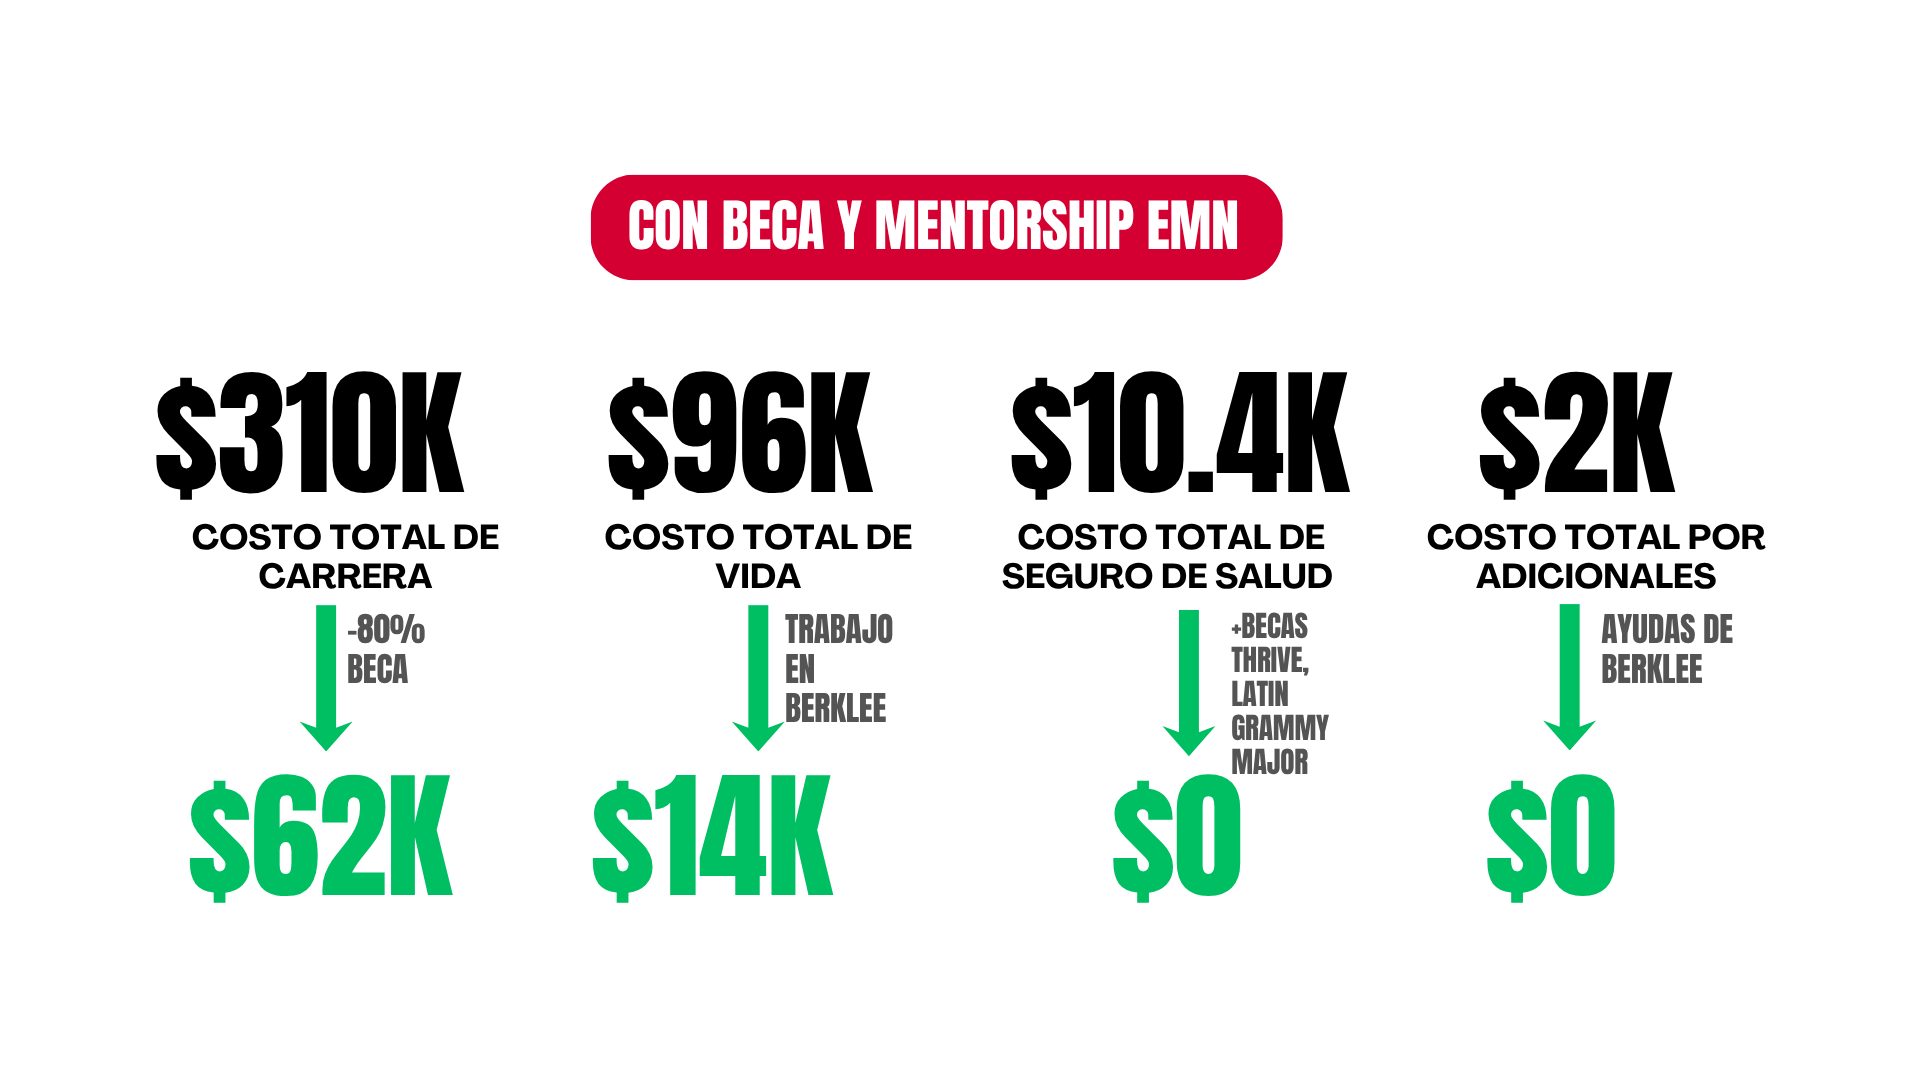
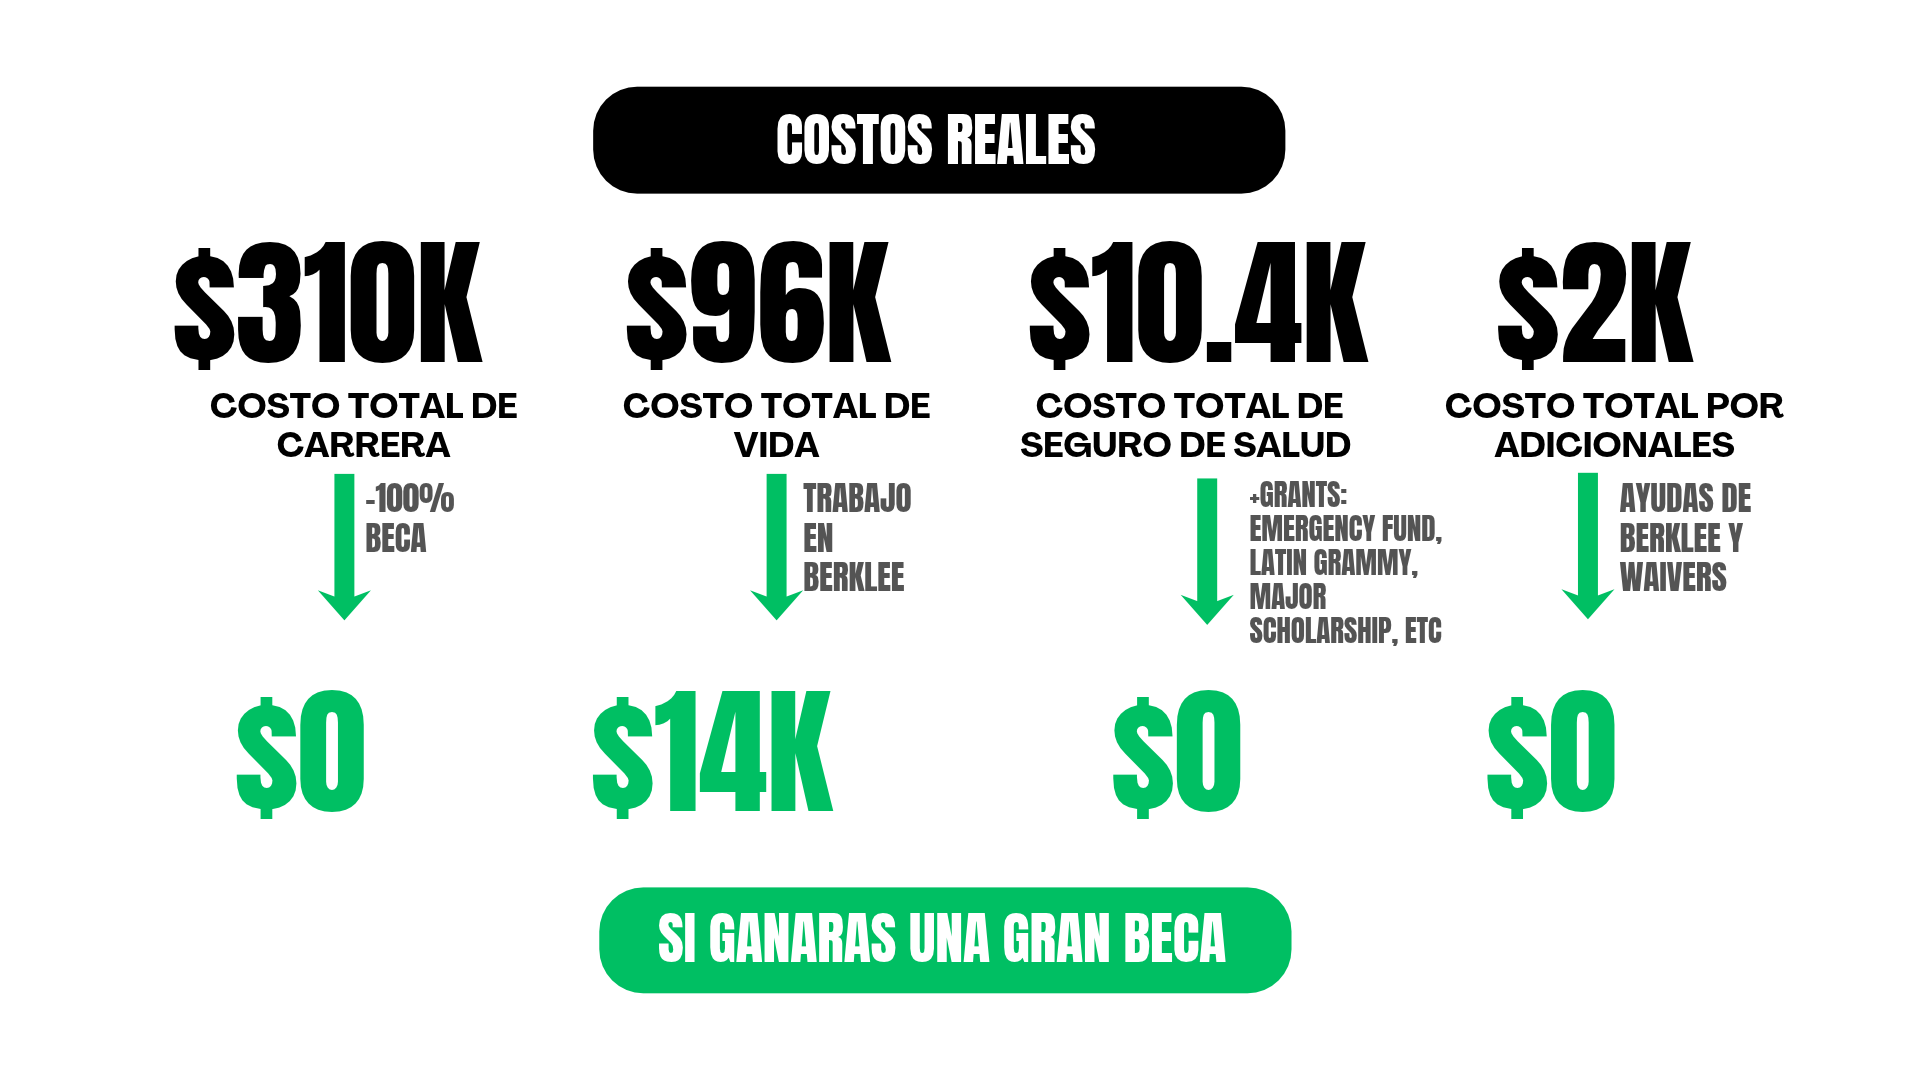
detalles emn de palabras

Changed region(s): [[0.2812, 0.0611, 0.9375, 0.9472], [0.0625, 0.2139, 0.2812, 0.825]]

diff --git a/_layouts/emn/practice-lab.html b/_layouts/emn/practice-lab.html
@@ -24,9 +24,9 @@
           <a href="https://zareenterprises.github.io/practice-lab" class="emn-nav__link is-active">EMN Practice Lab</a>
           <button class="emn-nav__caret" aria-label="Abrir submenú de EMN Practice Lab" aria-expanded="false">&#9662;</button>
           <div class="emn-nav__dropdown">
-            <a href="https://zareenterprises.github.io/sight-melody" class="emn-nav__dropdown-item">Berklee Sight Read</a>
+            <a href="https://zareenterprises.github.io/sight-melody" class="emn-nav__dropdown-item">Sight reading &amp; Audio Practice</a>
             <a href="https://zareenterprises.github.io/interview-prep" class="emn-nav__dropdown-item">Berklee Interview Prep</a>
-            <span class="emn-nav__dropdown-item is-disabled">Berklee Ear Training <span class="soon">Pronto</span></span>
+            <span class="emn-nav__dropdown-item is-disabled">Berklee Improvisation Practice <span class="soon">Pronto</span></span>
             <span class="emn-nav__dropdown-item is-disabled">Berklee Piece &amp; Impro <span class="soon">Pronto</span></span>
           </div>
         </div>
@@ -49,7 +49,7 @@
       <div class="lab__slot">
         <a href="https://zareenterprises.github.io/sight-melody" class="tool-card">
           <p class="tool-card__label">Disponible</p>
-          <h2>Berklee Sight Read</h2>
+          <h2>Sight reading &amp; Audio Practice</h2>
           <p>Lectura a primera vista de melodía y ritmo, generada al azar y sin repetirse.</p>
           <span class="tool-card__arrow">Entrar &rarr;</span>
         </a>
@@ -67,7 +67,7 @@
       <div class="lab__slot">
         <div class="tool-card is-disabled">
           <p class="tool-card__label">Pronto</p>
-          <h2>Berklee Ear Training</h2>
+          <h2>Berklee Improvisation Practice</h2>
           <p>Intervalos, acordes y dictado melódico al nivel que pide la audición.</p>
           <span class="tool-card__arrow">Pronto</span>
         </div>

diff --git a/_layouts/emn/index.html b/_layouts/emn/index.html
@@ -24,9 +24,9 @@
           <a href="https://zareenterprises.github.io/practice-lab" class="emn-nav__link">EMN Practice Lab</a>
           <button class="emn-nav__caret" aria-label="Abrir submenú de EMN Practice Lab" aria-expanded="false">&#9662;</button>
           <div class="emn-nav__dropdown">
-            <a href="https://zareenterprises.github.io/sight-melody" class="emn-nav__dropdown-item">Berklee Sight Read</a>
+            <a href="https://zareenterprises.github.io/sight-melody" class="emn-nav__dropdown-item">Sight reading &amp; Audio Practice</a>
             <a href="https://zareenterprises.github.io/interview-prep" class="emn-nav__dropdown-item">Berklee Interview Prep</a>
-            <span class="emn-nav__dropdown-item is-disabled">Berklee Ear Training <span class="soon">Pronto</span></span>
+            <span class="emn-nav__dropdown-item is-disabled">Berklee Improvisation Practice <span class="soon">Pronto</span></span>
             <span class="emn-nav__dropdown-item is-disabled">Berklee Piece &amp; Impro <span class="soon">Pronto</span></span>
           </div>
         </div>
@@ -38,8 +38,8 @@
   <main>
     <section class="hero">
       <div class="hero__inner">
-        <p class="hero__eyebrow">EMN Apps</p>
-        <h1>Herramientas para <em>audicionar</em><br>con beca a Berklee</h1>
+        <p class="hero__eyebrow">EMN</p>
+        <h1>Escuela de Música y Negocios</h1>
         <p>Alumnos becados de Berklee ayudándote a ganar una ti también.</p>
       </div>
     </section>

diff --git a/_layouts/emn/feedback.html b/_layouts/emn/feedback.html
@@ -24,9 +24,9 @@
           <a href="https://zareenterprises.github.io/practice-lab" class="emn-nav__link">EMN Practice Lab</a>
           <button class="emn-nav__caret" aria-label="Abrir submenú de EMN Practice Lab" aria-expanded="false">&#9662;</button>
           <div class="emn-nav__dropdown">
-            <a href="https://zareenterprises.github.io/sight-melody" class="emn-nav__dropdown-item">Berklee Sight Read</a>
+            <a href="https://zareenterprises.github.io/sight-melody" class="emn-nav__dropdown-item">Sight reading &amp; Audio Practice</a>
             <a href="https://zareenterprises.github.io/interview-prep" class="emn-nav__dropdown-item">Berklee Interview Prep</a>
-            <span class="emn-nav__dropdown-item is-disabled">Berklee Ear Training <span class="soon">Pronto</span></span>
+            <span class="emn-nav__dropdown-item is-disabled">Berklee Improvisation Practice <span class="soon">Pronto</span></span>
             <span class="emn-nav__dropdown-item is-disabled">Berklee Piece &amp; Impro <span class="soon">Pronto</span></span>
           </div>
         </div>

diff --git a/_layouts/emn/admin-calendar.html b/_layouts/emn/admin-calendar.html
@@ -103,9 +103,9 @@
         <a href="https://zareenterprises.github.io/practice-lab" class="emn-nav__link">EMN Practice Lab</a>
         <button class="emn-nav__caret" aria-label="Abrir submenú de EMN Practice Lab" aria-expanded="false">&#9662;</button>
         <div class="emn-nav__dropdown">
-          <a href="https://zareenterprises.github.io/sight-melody" class="emn-nav__dropdown-item">Berklee Sight Read</a>
+          <a href="https://zareenterprises.github.io/sight-melody" class="emn-nav__dropdown-item">Sight reading &amp; Audio Practice</a>
           <a href="https://zareenterprises.github.io/interview-prep" class="emn-nav__dropdown-item">Berklee Interview Prep</a>
-          <span class="emn-nav__dropdown-item is-disabled">Berklee Ear Training <span class="soon">Pronto</span></span>
+          <span class="emn-nav__dropdown-item is-disabled">Berklee Improvisation Practice <span class="soon">Pronto</span></span>
           <span class="emn-nav__dropdown-item is-disabled">Berklee Piece &amp; Impro <span class="soon">Pronto</span></span>
         </div>
       </div>

diff --git a/_layouts/emn/actividad.html b/_layouts/emn/actividad.html
@@ -57,9 +57,9 @@
         <a href="https://zareenterprises.github.io/practice-lab" class="emn-nav__link">EMN Practice Lab</a>
         <button class="emn-nav__caret" aria-label="Abrir submenú de EMN Practice Lab" aria-expanded="false">&#9662;</button>
         <div class="emn-nav__dropdown">
-          <a href="https://zareenterprises.github.io/sight-melody" class="emn-nav__dropdown-item">Berklee Sight Read</a>
+          <a href="https://zareenterprises.github.io/sight-melody" class="emn-nav__dropdown-item">Sight reading &amp; Audio Practice</a>
           <a href="https://zareenterprises.github.io/interview-prep" class="emn-nav__dropdown-item">Berklee Interview Prep</a>
-          <span class="emn-nav__dropdown-item is-disabled">Berklee Ear Training <span class="soon">Pronto</span></span>
+          <span class="emn-nav__dropdown-item is-disabled">Berklee Improvisation Practice <span class="soon">Pronto</span></span>
           <span class="emn-nav__dropdown-item is-disabled">Berklee Piece &amp; Impro <span class="soon">Pronto</span></span>
         </div>
       </div>

diff --git a/_layouts/emn/career.html b/_layouts/emn/career.html
@@ -95,9 +95,9 @@
         <a href="https://zareenterprises.github.io/practice-lab" class="emn-nav__link">EMN Practice Lab</a>
         <button class="emn-nav__caret" aria-label="Abrir submenú de EMN Practice Lab" aria-expanded="false">&#9662;</button>
         <div class="emn-nav__dropdown">
-          <a href="https://zareenterprises.github.io/sight-melody" class="emn-nav__dropdown-item">Berklee Sight Read</a>
+          <a href="https://zareenterprises.github.io/sight-melody" class="emn-nav__dropdown-item">Sight reading &amp; Audio Practice</a>
           <a href="https://zareenterprises.github.io/interview-prep" class="emn-nav__dropdown-item">Berklee Interview Prep</a>
-          <span class="emn-nav__dropdown-item is-disabled">Berklee Ear Training <span class="soon">Pronto</span></span>
+          <span class="emn-nav__dropdown-item is-disabled">Berklee Improvisation Practice <span class="soon">Pronto</span></span>
           <span class="emn-nav__dropdown-item is-disabled">Berklee Piece &amp; Impro <span class="soon">Pronto</span></span>
         </div>
       </div>

diff --git a/_layouts/emn/usuarios.html b/_layouts/emn/usuarios.html
@@ -62,9 +62,9 @@
         <a href="https://zareenterprises.github.io/practice-lab" class="emn-nav__link">EMN Practice Lab</a>
         <button class="emn-nav__caret" aria-label="Abrir submenú de EMN Practice Lab" aria-expanded="false">&#9662;</button>
         <div class="emn-nav__dropdown">
-          <a href="https://zareenterprises.github.io/sight-melody" class="emn-nav__dropdown-item">Berklee Sight Read</a>
+          <a href="https://zareenterprises.github.io/sight-melody" class="emn-nav__dropdown-item">Sight reading &amp; Audio Practice</a>
           <a href="https://zareenterprises.github.io/interview-prep" class="emn-nav__dropdown-item">Berklee Interview Prep</a>
-          <span class="emn-nav__dropdown-item is-disabled">Berklee Ear Training <span class="soon">Pronto</span></span>
+          <span class="emn-nav__dropdown-item is-disabled">Berklee Improvisation Practice <span class="soon">Pronto</span></span>
           <span class="emn-nav__dropdown-item is-disabled">Berklee Piece &amp; Impro <span class="soon">Pronto</span></span>
         </div>
       </div>
